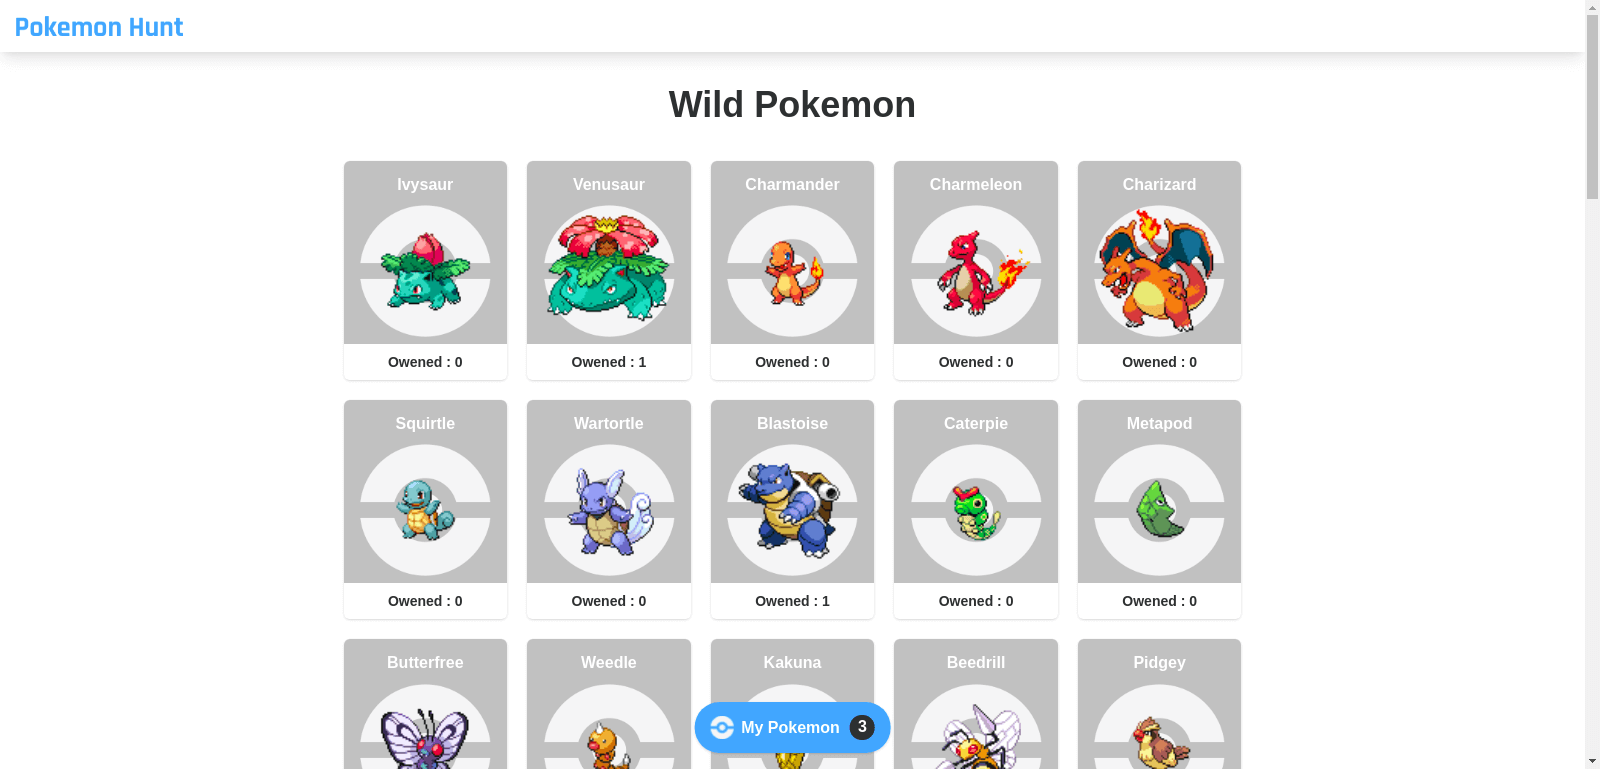
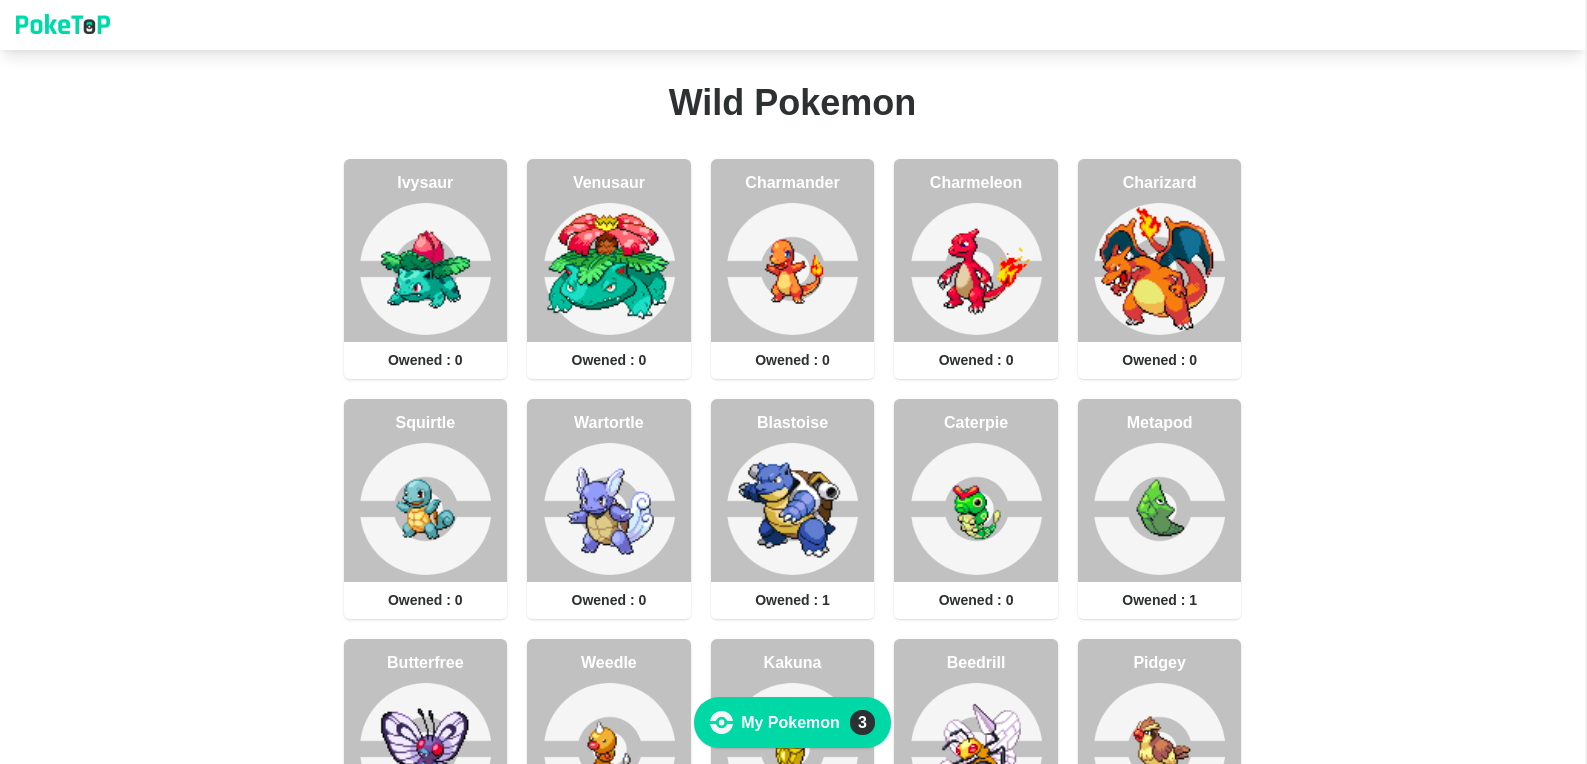
change preview and readme file

diff --git a/README.md b/README.md
@@ -1,6 +1,6 @@
 # React-Pokemon
 
-This app show a list of Pokemon, in the details page of each pokemon you can catch and collect them, you can catch the same pokemon multiple times and give unique nicknames. And you can see yout collected Pokemon on my pokemon page. This app uses data from [graphql-pokeapi](https://github.com/mazipan/graphql-pokeapi). You can check this app demo on [Pokemon-Hunt](https://poke-hunt.netlify.app/).
+This app show a list of Pokemon, in the details page of each pokemon you can catch and collect them, you can catch the same pokemon multiple times and give unique nicknames. And you can see yout collected Pokemon on my pokemon page. This app uses data from [graphql-pokeapi](https://github.com/mazipan/graphql-pokeapi). You can check this app demo on [Pokemon-Hunt](https://poke-top.netlify.app/).
 
 ## Preview
 ![page1](./preview1.png)
